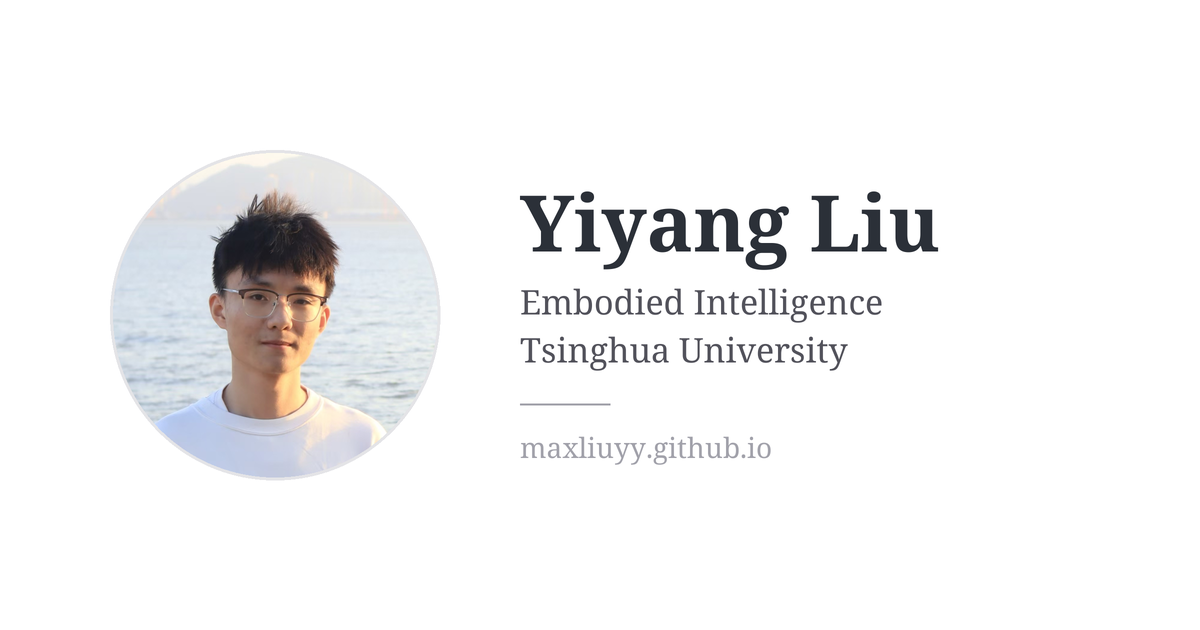
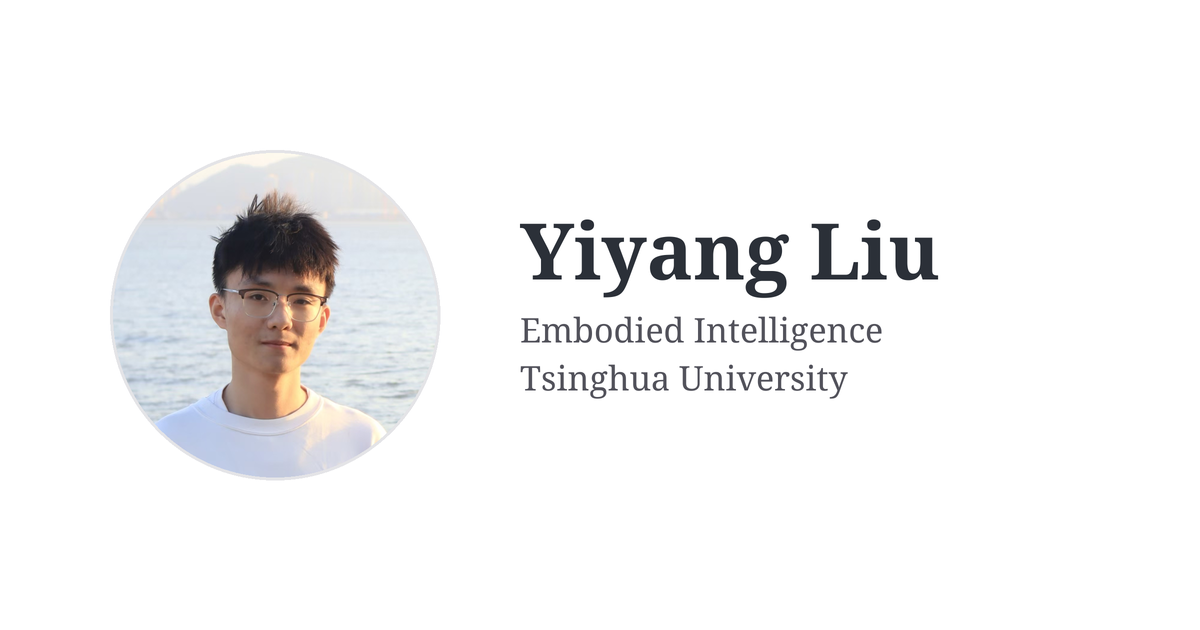
feat: 支持 header.og_image 作为文章分享图，默认分享图去掉域名

Changed region(s): [[0.4317, 0.3016, 0.8017, 0.6635], [0.4317, 0.6937, 0.6475, 0.754]]

diff --git a/_includes/seo.html b/_includes/seo.html
@@ -23,12 +23,19 @@
 <meta name="description" content="{{ seo_description }}">
 
 {% comment %} ===== Social share image =====
-Priority: page.header.image > page.header.overlay_image > site.og_image > default /images/og-image.png.
+Priority: page.header.og_image > page.header.image > page.header.overlay_image > site.og_image > default
+/images/og-image.png. header.og_image sets the share image only; header.image also shows as the page hero.
 Absolute URLs (containing "://") are used as-is; relative paths are resolved under /images/ and prepended
 with base_path so the result is always absolute.
 {% endcomment %}
 {% assign seo_image_abs = false %}
-{% if page.header.image %}
+{% if page.header.og_image %}
+  {% if page.header.og_image contains "://" %}
+    {% assign seo_image_abs = page.header.og_image %}
+  {% else %}
+    {% assign seo_image_abs = page.header.og_image | prepend: "/images/" | prepend: base_path %}
+  {% endif %}
+{% elsif page.header.image %}
   {% if page.header.image contains "://" %}
     {% assign seo_image_abs = page.header.image %}
   {% else %}
@@ -149,7 +156,7 @@ Twitter username (site.twitter.username), matching upstream behavior.
 {% endif %}
 {% if seo_image_abs %}
   <meta property="og:image" content="{{ seo_image_abs }}">
-  {% if seo_image_abs contains "og-image.png" %}
+  {% if seo_image_abs contains "og-image.png" or page.header.og_image %}
     <meta property="og:image:type" content="image/png">
     <meta property="og:image:width" content="1200">
     <meta property="og:image:height" content="630">
